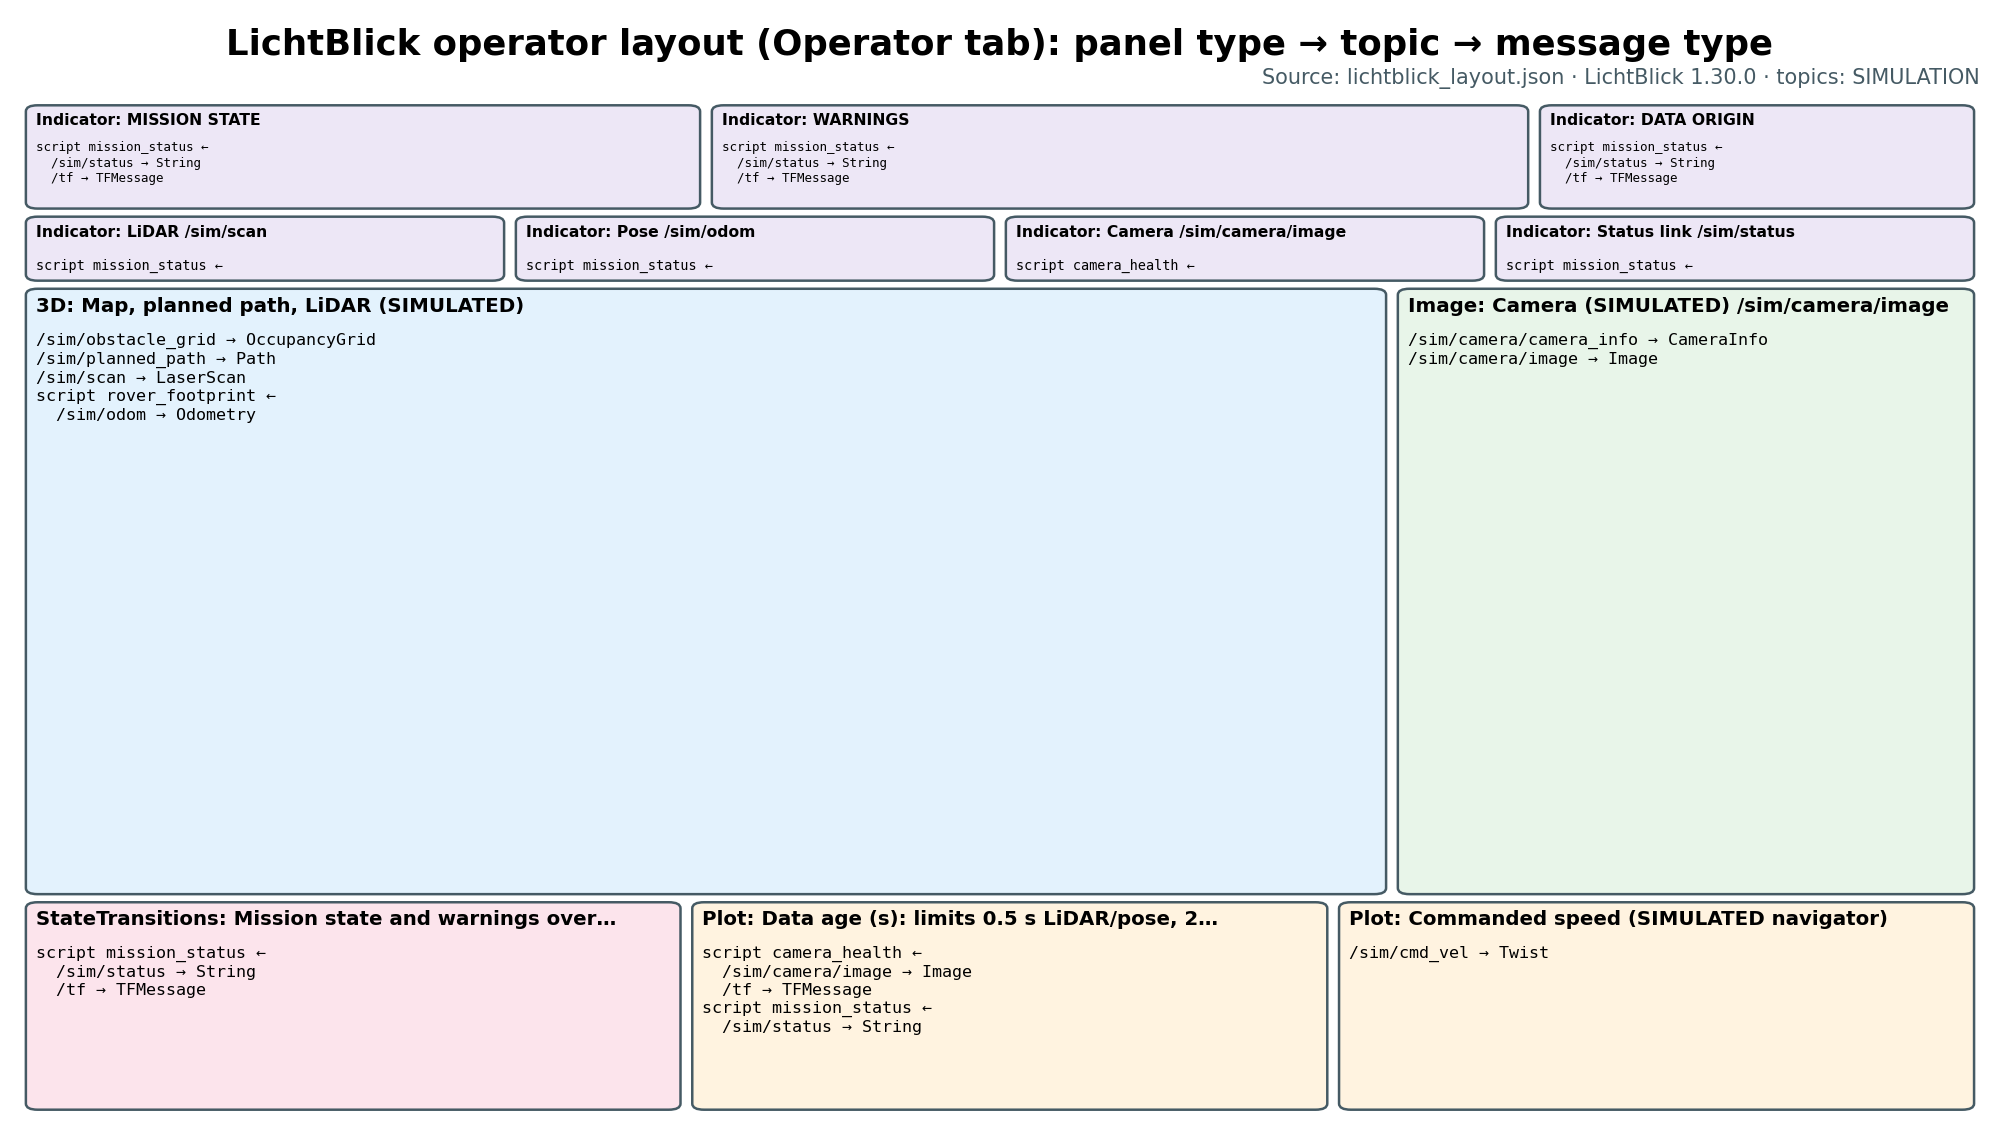
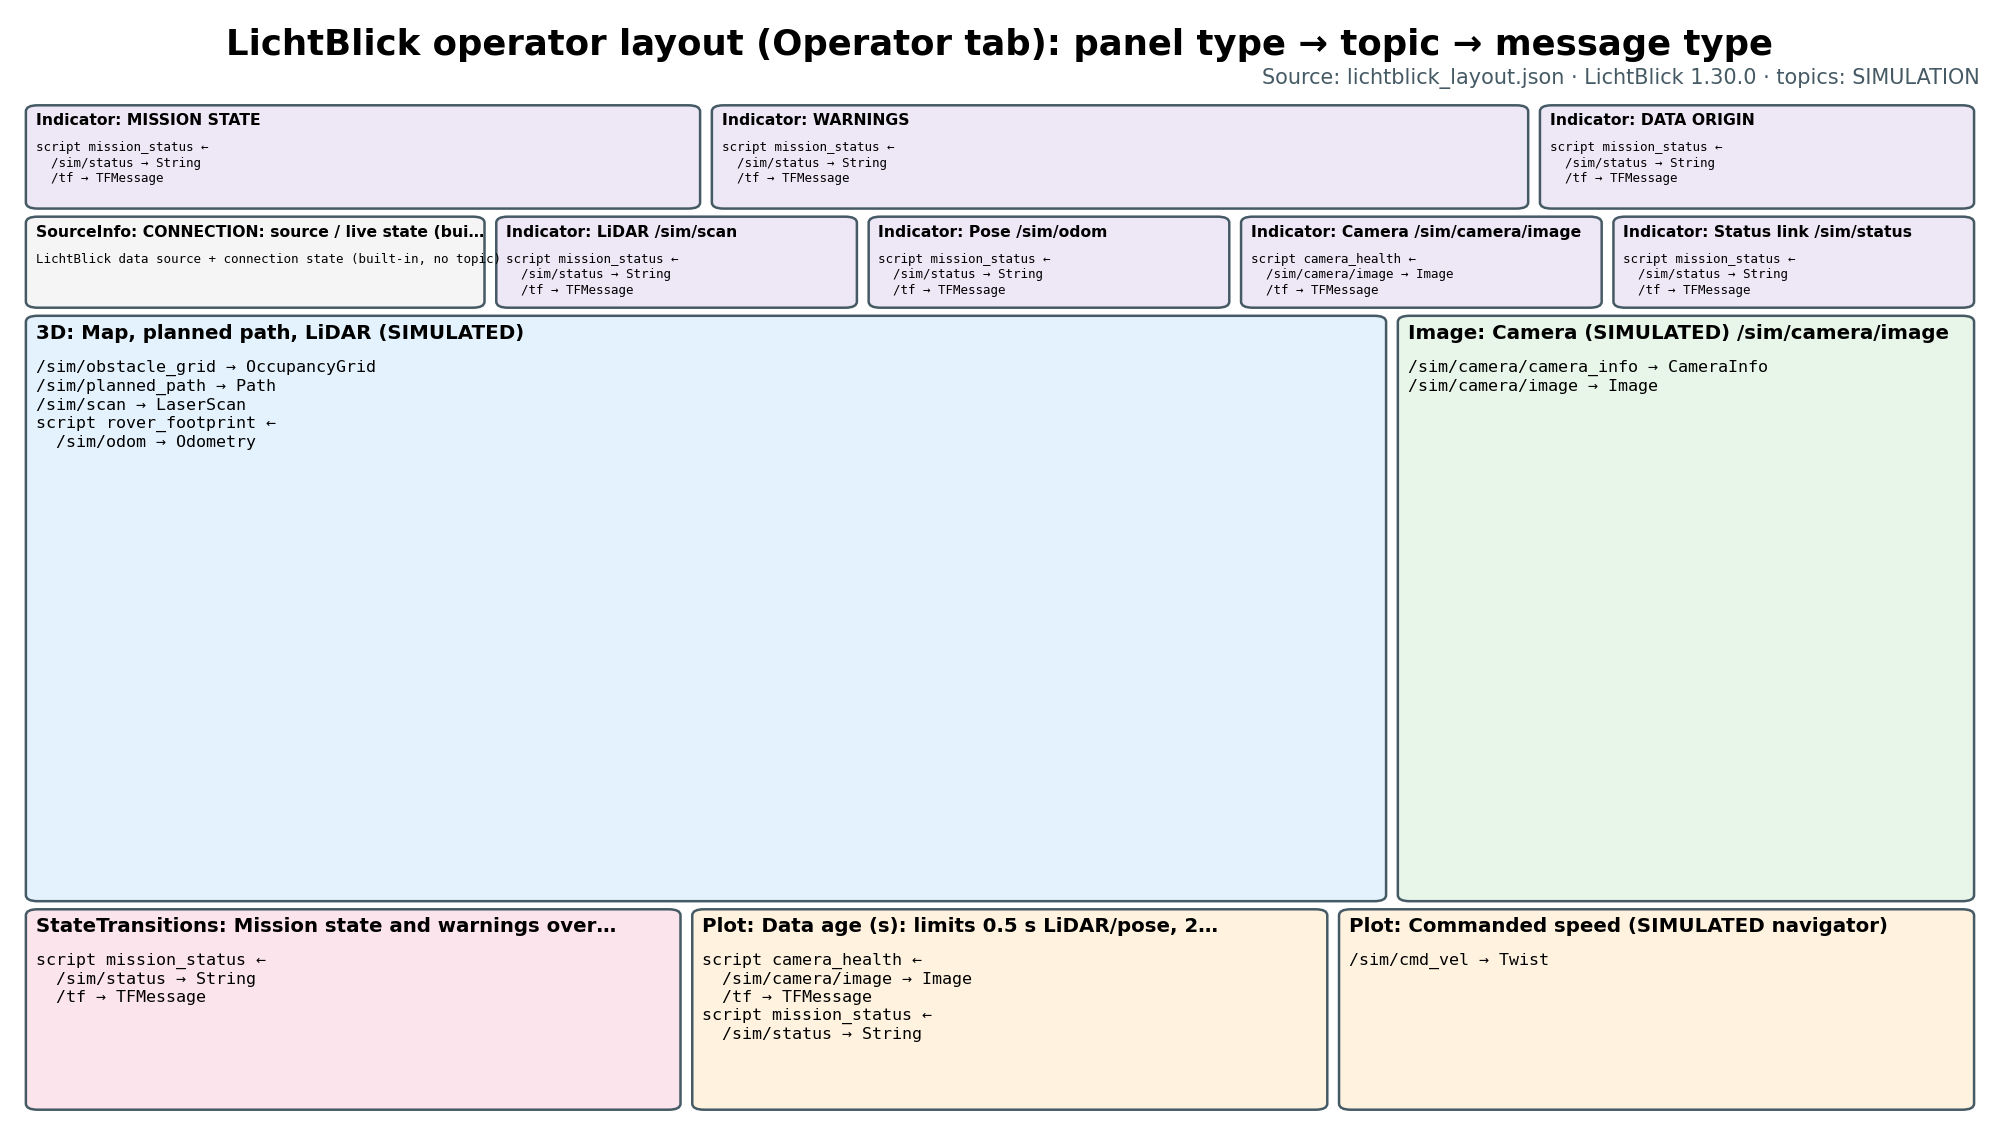
Show connection state next to the health lights
On a dropped Rosbridge connection LichtBlick 1.30.0 stops delivering
messages, so scripts never re-run and every indicator keeps its last
(healthy-looking) value; a layout cannot run a wall-clock timer. The
built-in Data source info panel switches to 'Waiting for connection...'
on RECONNECTING, so it now sits at the start of the health row as
CONNECTION. layout_diagram.py also writes panel_topics.md.

Changed region(s): [[0.0, 0.1867, 0.9925, 0.4044], [0.0, 0.7778, 0.9925, 0.9333]]

diff --git a/tools/layout_diagram.py b/tools/layout_diagram.py
@@ -49,6 +49,8 @@ def describe(pid, config, layout, types):
         code = script['sourceCode']
         inputs = json.loads(re.search(r'inputs\s*=\s*(\[[^\]]*\])', code).group(1))
         scripts[re.search(r'output\s*=\s*"([^"]+)"', code).group(1)] = (script['name'], inputs)
+    if pid.startswith('SourceInfo!'):
+        return ['LichtBlick data source + connection state (built-in, no topic)']
     if str(config.get('path', '')).rsplit('.', 1)[-1] in ('battery', 'estop', 'faults'):
         return ['no input topic → UNAVAILABLE']
     lines = []
@@ -60,6 +62,21 @@ def describe(pid, config, layout, types):
         else:
             lines.append(f'{topic} → {types.get(topic, "?").split("/")[-1]}')
     return list(dict.fromkeys(lines))
+
+
+def panel_table(layout_path, types=None):
+    """Markdown table: tab, panel title, panel type, topic -> message type."""
+    layout = json.loads(Path(layout_path).read_text())
+    configs = layout['configById']
+    types = types or topic_types()
+    tabs = configs['Tab!main']['tabs'] if 'Tab!main' in configs else [{'title': 'Layout', 'layout': layout['layout']}]
+    rows = ['| Tab | Panel | Type | Topic → message type |', '| --- | --- | --- | --- |']
+    for tab in tabs:
+        for pid, *_ in geometry(tab['layout']):
+            body = '; '.join(line.strip() for line in describe(pid, configs[pid], layout, types))
+            title = configs[pid].get('lichtblickPanelTitle', pid.split('!')[1])
+            rows.append(f"| {tab['title'].split(' ')[0]} | {title} | {pid.split('!')[0]} | {body.replace('← ;', '←')} |")
+    return '\n'.join(rows)+'\n'
 
 
 def layout_figure(layout_path, out):
@@ -153,11 +170,19 @@ def main():
     ap = argparse.ArgumentParser(description=__doc__)
     ap.add_argument('--layout', default=str(LICHTBLICK/'lichtblick_layout.json'))
     ap.add_argument('--out-dir', type=Path, default=ROOT/'pdr/figures')
+    ap.add_argument('--table', type=Path, default=LICHTBLICK/'panel_topics.md',
+                    help='Markdown panel -> topic table to write')
+    ap.add_argument('--figure-name', default='layout_diagram.png')
     args = ap.parse_args()
     args.out_dir.mkdir(parents=True, exist_ok=True)
-    layout_figure(args.layout, args.out_dir/'layout_diagram.png')
+    layout_figure(args.layout, args.out_dir/args.figure_name)
     data_path_figure(args.out_dir/'data_path.png')
-    print('wrote', args.out_dir/'layout_diagram.png', 'and', args.out_dir/'data_path.png')
+    args.table.write_text(
+        '# Panel → topic → message type\n\n'
+        f'Generated from `{Path(args.layout).name}` by `tools/layout_diagram.py`; do not edit by hand. '
+        '"script X ←" means the panel shows LichtBlick User Script X, which reads the listed ROS topics '
+        'and publishes nothing to ROS.\n\n' + panel_table(args.layout))
+    print('wrote', args.out_dir/args.figure_name, args.out_dir/'data_path.png', 'and', args.table)
 
 
 if __name__ == '__main__':

diff --git a/02_Ground_Station_Telemetry/deliverables/lichtblick/panel_topics.md b/02_Ground_Station_Telemetry/deliverables/lichtblick/panel_topics.md
@@ -1,23 +1,24 @@
 # Panel → topic → message type
 
-Generated from `lichtblick_layout.json` (Operator and Details tabs). "script X ←" means the panel shows the output of LichtBlick User Script X, which reads the listed ROS topics; scripts publish nothing to ROS. The LiDAR and Pose lights use the ages reported in `/sim/status`. All topics are SIMULATION (`/sim/*`).
+Generated from `lichtblick_layout.json` by `tools/layout_diagram.py`; do not edit by hand. "script X ←" means the panel shows LichtBlick User Script X, which reads the listed ROS topics and publishes nothing to ROS.
 
 | Tab | Panel | Type | Topic → message type |
 | --- | --- | --- | --- |
-| Operator | MISSION STATE | Indicator | script mission_status ← /sim/status → String; /tf → TFMessage |
-| Operator | WARNINGS | Indicator | script mission_status ← /sim/status → String; /tf → TFMessage |
-| Operator | DATA ORIGIN | Indicator | script mission_status ← /sim/status → String; /tf → TFMessage |
-| Operator | LiDAR /sim/scan | Indicator | script mission_status ← /sim/status → String; /tf → TFMessage |
-| Operator | Pose /sim/odom | Indicator | script mission_status ← /sim/status → String; /tf → TFMessage |
-| Operator | Camera /sim/camera/image | Indicator | script camera_health ← /sim/camera/image → Image; /tf → TFMessage |
-| Operator | Status link /sim/status | Indicator | script mission_status ← /sim/status → String; /tf → TFMessage |
-| Operator | Map, planned path, LiDAR (SIMULATED) | 3D | /sim/obstacle_grid → OccupancyGrid; /sim/planned_path → Path; /sim/scan → LaserScan; script rover_footprint ← /sim/odom → Odometry |
+| Operator | MISSION STATE | Indicator | script mission_status ←; /sim/status → String; /tf → TFMessage |
+| Operator | WARNINGS | Indicator | script mission_status ←; /sim/status → String; /tf → TFMessage |
+| Operator | DATA ORIGIN | Indicator | script mission_status ←; /sim/status → String; /tf → TFMessage |
+| Operator | CONNECTION: source / live state (built-in) | SourceInfo | LichtBlick data source + connection state (built-in, no topic) |
+| Operator | LiDAR /sim/scan | Indicator | script mission_status ←; /sim/status → String; /tf → TFMessage |
+| Operator | Pose /sim/odom | Indicator | script mission_status ←; /sim/status → String; /tf → TFMessage |
+| Operator | Camera /sim/camera/image | Indicator | script camera_health ←; /sim/camera/image → Image; /tf → TFMessage |
+| Operator | Status link /sim/status | Indicator | script mission_status ←; /sim/status → String; /tf → TFMessage |
+| Operator | Map, planned path, LiDAR (SIMULATED) | 3D | /sim/obstacle_grid → OccupancyGrid; /sim/planned_path → Path; /sim/scan → LaserScan; script rover_footprint ←; /sim/odom → Odometry |
 | Operator | Camera (SIMULATED) /sim/camera/image | Image | /sim/camera/camera_info → CameraInfo; /sim/camera/image → Image |
-| Operator | Mission state and warnings over time | StateTransitions | script mission_status ← /sim/status → String; /tf → TFMessage |
-| Operator | Data age (s): limits 0.5 s LiDAR/pose, 2 s camera, 1 s status | Plot | script camera_health ← /sim/camera/image → Image; /tf → TFMessage; script mission_status ← /sim/status → String |
+| Operator | Mission state and warnings over time | StateTransitions | script mission_status ←; /sim/status → String; /tf → TFMessage |
+| Operator | Data age (s): limits 0.5 s LiDAR/pose, 2 s camera, 1 s status | Plot | script camera_health ←; /sim/camera/image → Image; /tf → TFMessage; script mission_status ←; /sim/status → String |
 | Operator | Commanded speed (SIMULATED navigator) | Plot | /sim/cmd_vel → Twist |
 | Details | Raw /sim/status (SIMULATED navigator JSON) | RawMessagesVirtual | /sim/status → String |
-| Details | Data source: topics, types, start/end time | SourceInfo | all topics in the open data source |
+| Details | Data source: topics, types, start/end time | SourceInfo | LichtBlick data source + connection state (built-in, no topic) |
 | Details | Rover-only (not in simulation): Battery | Indicator | no input topic → UNAVAILABLE |
 | Details | Rover-only (not in simulation): E-stop | Indicator | no input topic → UNAVAILABLE |
 | Details | Rover-only (not in simulation): Faults | Indicator | no input topic → UNAVAILABLE |
